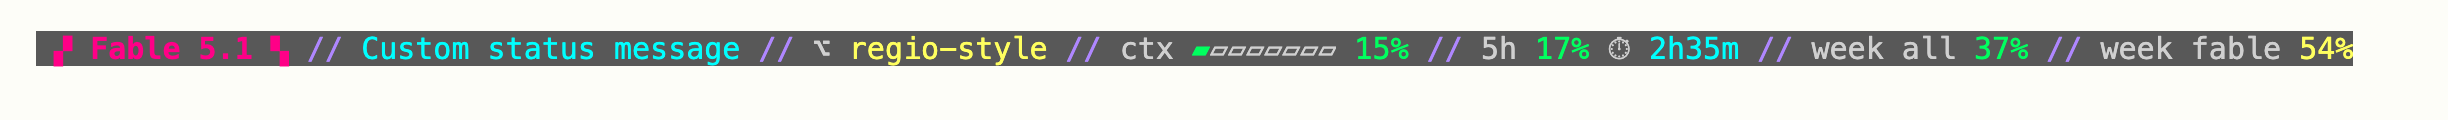
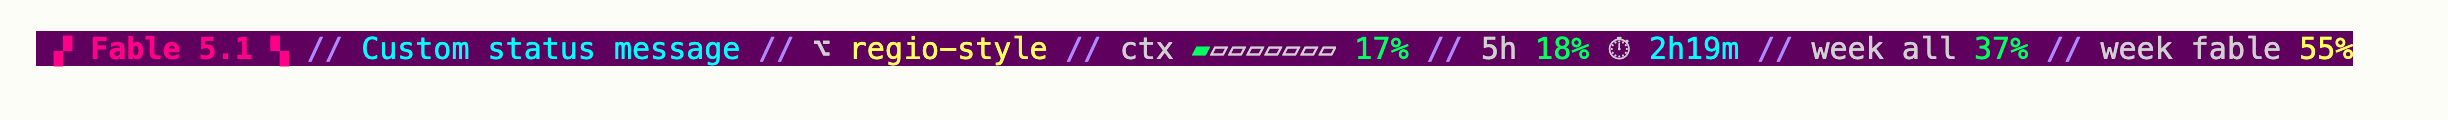
regio style: plum background pill

Changed region(s): [[0.0, 0.25, 0.9624, 0.55]]

diff --git a/README.md b/README.md
@@ -53,12 +53,12 @@ A neon take on the same data, plus the git branch and the 5-hour window:
 
 <img alt="regio style: model, session, branch, context bar, 5-hour window with time left, weekly all and weekly fable" src="regio.png" />
 
-- Hot-pink model, cyan session, yellow branch, purple `//` separators.
+- Hot-pink model, cyan session, yellow branch, lilac `//` separators, all on a plum pill.
 - Context gets an 8-block bar next to the percentage.
 - The 5-hour window shows its percentage and the time left until it resets.
 - Weekly rows are the same server-labelled list as the default style.
 - Percentages and the bar use the same thresholds (green < 50, yellow from 50, pink from 80).
-- 256-colour ANSI on a dark-grey pill, so it looks the same on light and dark terminal themes.
+- 256-colour ANSI on a plum pill, so it looks the same on light and dark terminal themes.
 
 ## Customise
 
